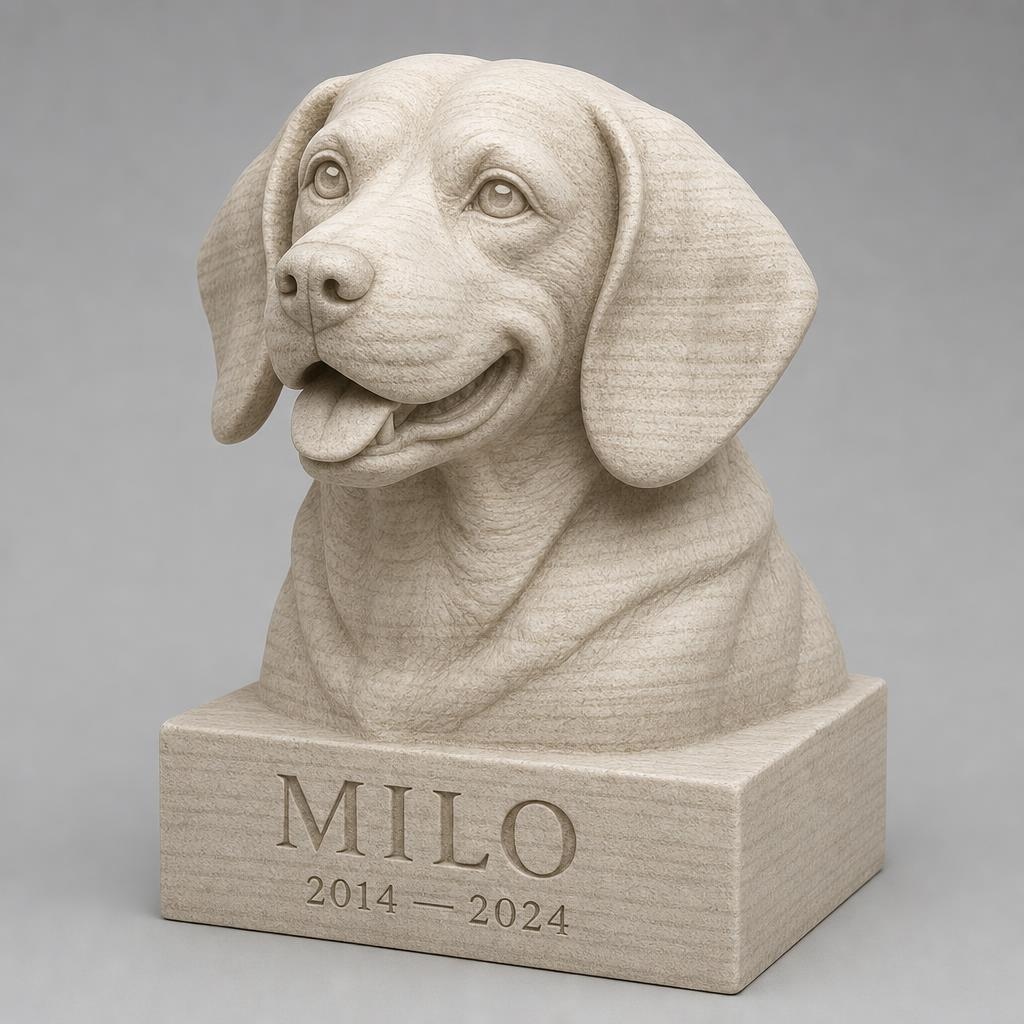
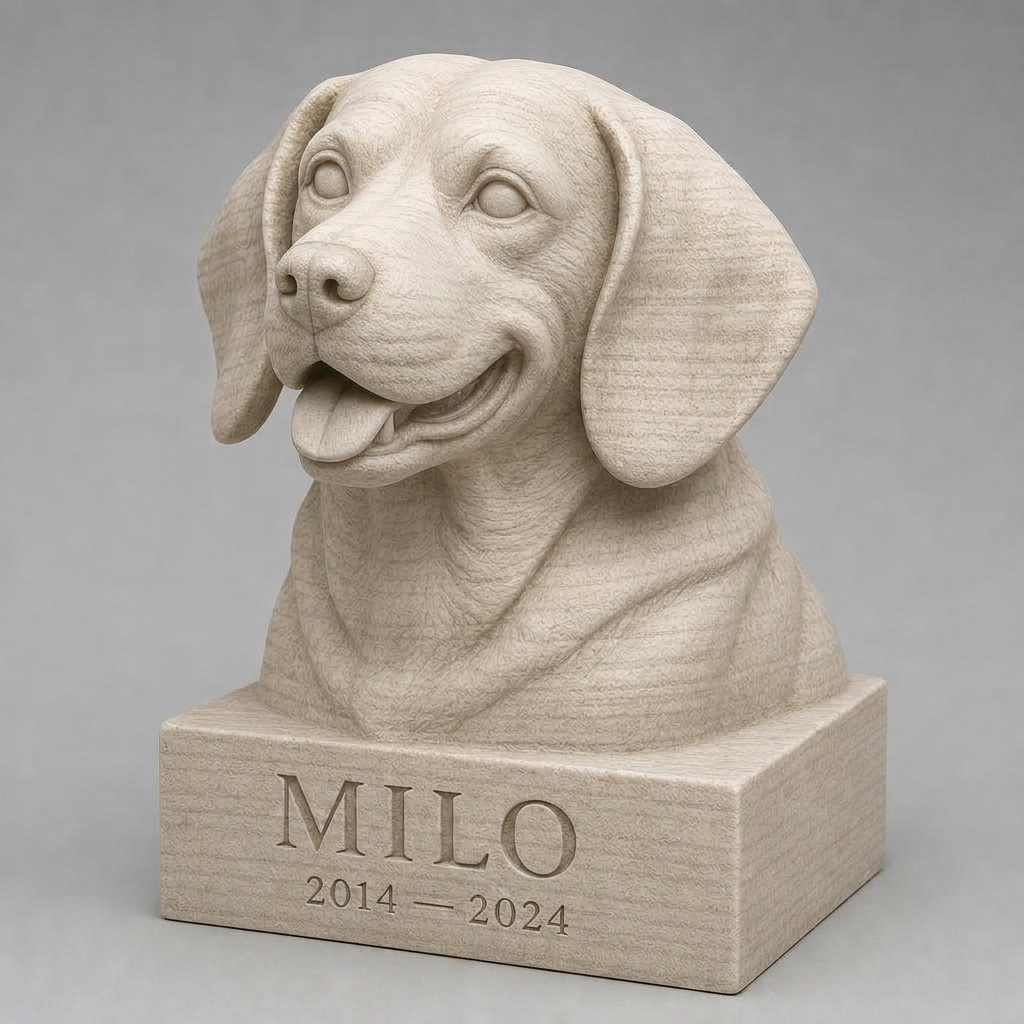
Changes

diff --git a/supabase/functions/social-scheduler/index.ts b/supabase/functions/social-scheduler/index.ts
@@ -129,8 +129,14 @@ const expressionFor = (id: string): string => {
 
 const FORMAT_CLAUSE = " Vertical 4:5 portrait framing suitable for an Instagram feed post.";
 
+/** The piece is printed in one filament, so nothing on it can be a different colour. */
+const MONOCHROME_CLAUSE =
+  " Material: printed in a single filament colour — the whole piece including the eyes, pupils, nose, tongue, mouth and base " +
+  "is exactly the same matte colour and finish as the body. No coloured irises, no glossy or wet highlights, no pink tongue, " +
+  "no painted details, no two-tone or multi-colour areas anywhere; eyes and details read purely as sculpted form.";
+
 const renderPrompt = (p: string, id: string) =>
-  `${applySpecies(p, id)}${engravingClause(engravingFor(id))}${expressionFor(id)}${PRINTABILITY_CLAUSE}${FORMAT_CLAUSE}`;
+  `${applySpecies(p, id)}${engravingClause(engravingFor(id))}${expressionFor(id)}${MONOCHROME_CLAUSE}${PRINTABILITY_CLAUSE}${FORMAT_CLAUSE}`;
 
 type Post = {
   id: string;
